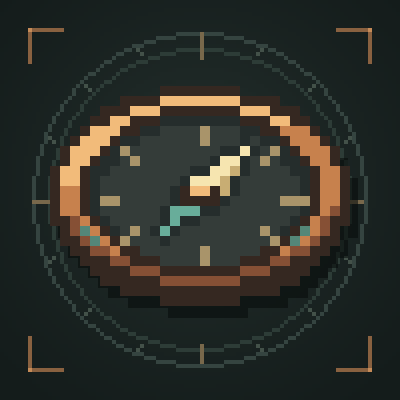
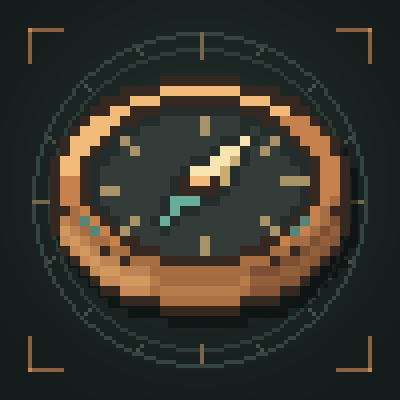
release: prepare v0.1.2 prerelease with V2 artwork

Changed region(s): [[0.12, 0.21, 0.9, 0.81], [0.75, 0.75, 0.78, 0.78]]

diff --git a/generate_project_icon.py b/generate_project_icon.py
@@ -1,4 +1,4 @@
-"""Generate the CurseForge project icon from the existing compass artwork.
+"""Generate the CurseForge project icon from the live V2 compass artwork.
 
 Requires Python 3 and Pillow. This script is MIT-licensed; the generated
 artwork follows the project's CC BY 4.0 artwork license.

diff --git a/docs/CurseForge_项目页面文案.md b/docs/CurseForge_项目页面文案.md
@@ -1,6 +1,6 @@
 # CurseForge 项目页面文案
 
-本稿对应当前 `0.1.1` 预发布版本，仅准备页面内容；未创建 CurseForge 项目、上传文件、重新构建或执行游戏测试。只复制所需的公开文案，不要把编辑说明和待办清单整篇贴到项目页面。
+本稿对应当前 `0.1.2` GitHub 预发布准备版本，采用 V2 折中铜壳与同步的 400×400 项目图标；CurseForge 项目尚未创建或上传。构建与资源检查不代表游戏内验收，V2 外观、干净实例和联机等待测项目保留说明。只复制所需的公开文案，不要把编辑说明和待办清单整篇贴到项目页面。
 
 ## 1. 项目字段（作者填写）
 
@@ -38,7 +38,7 @@ Archaeology Compass adds a craftable copper compass that points toward the neare
 - **Shift for details.** Hold Shift over the item to see search rules, the server's scan range, and the current search status.
 - **Loaded chunks only.** Searching does not force distant chunks to load or generate.
 - **Configurable on the server.** Adjust the horizontal radius, vertical radius, and scan interval.
-- **Original artwork.** A 32×32 copper compass with 32 directional frames, a pale-gold needle, and a green tail.
+- **Original artwork.** A 32×32, 32-frame copper compass with the balanced V2 shell: a subtle two-row copper side wall, a dark bottom edge, a pale-gold needle, and a green tail.
 - **English and Simplified Chinese item text.**
 
 ## How to use
@@ -89,7 +89,7 @@ The server controls these settings, including the integrated server in single-pl
 
 ## Prerelease status and limitations
 
-**Version 0.1.1 is an early prerelease.** Earlier development builds received basic single-player checks, but the latest artwork, tooltip feedback, recipe-book unlocking, JEI display, and dedicated-server multiplayer still need targeted validation. Expect possible issues and please report them.
+**Version 0.1.2 is an early prerelease focused on artwork.** The author reported normal functionality during a previous 0.1.1 development-client session; that feedback is not a complete test matrix. The V2 artwork, clean-instance installation, tooltip and recipe-book regression checks, JEI display, and dedicated-server multiplayer still need targeted validation. Expect possible issues and please report them.
 
 - Only loaded chunks within the configured range are searched.
 - Block changes and ordinary inventory changes are reflected on the next scan, not instantly.
@@ -130,7 +130,7 @@ Found a problem? Please [open an issue](https://github.com/luanma114/archaeology
 
 **版本要求：Minecraft 1.21.1、NeoForge 21.1.235 或更新的 1.21.1 兼容版本、Java 21。** 更新的 NeoForge 版本未逐一验证。多人游戏需要客户端和服务器都安装；此文件不支持 Forge、Fabric 或其他 Minecraft 版本。
 
-当前 **0.1.1 为早期预发布**，新版外观、提示、配方书解锁、JEI 展示及独立服务器联机仍待专项验证。JEI 不是必需依赖；较大范围、高频扫描及多人场景尚无性能实测保证。
+当前 **0.1.2 为美术更新预发布**，采用两行铜制侧壁、一行暗色收边的 V2 折中外观，并同步项目图标；定位、配方和指针逻辑未改。上一轮 0.1.1 开发客户端获用户反馈功能正常，但未列出完整用例；V2 外观、干净实例安装、提示及配方书回归、JEI 展示和独立服务器联机仍需专项验证。JEI 不是必需依赖；较大范围、高频扫描及多人场景尚无性能实测保证。
 
 代码及非美术内容采用 MIT，指定美术资源采用 CC BY 4.0；两者按内容分别适用。整合包可以在遵守相应许可条款的前提下收录。问题反馈请提交 [Issue](https://github.com/luanma114/archaeology-compass/issues)。
 
@@ -140,8 +140,8 @@ Found a problem? Please [open an issue](https://github.com/luanma114/archaeology
 
 | 字段 | 当前建议 |
 | --- | --- |
-| Upload file | 经过重新构建和干净实例验证后，使用对应的主模组 JAR；现有候选为 [archaeologycompass-0.1.1.jar](<../build/libs/archaeologycompass-0.1.1.jar>)，本稿不证明它已完成本轮验收 |
-| Display Name | Archaeology Compass 0.1.1 — Minecraft 1.21.1 (NeoForge) |
+| Upload file | [archaeologycompass-0.1.2.jar](<../build/libs/archaeologycompass-0.1.2.jar>) 已通过离线构建及版本、V2贴图、模型和许可检查；上传 CurseForge 前仍建议完成干净实例验收，不把构建检查当作游戏测试 |
+| Display Name | Archaeology Compass 0.1.2 — Minecraft 1.21.1 (NeoForge) |
 | Release Type | 按目前验证状态选择 **Alpha**；完成单人回归和独服双客户端验证后再考虑 Beta，不直接标稳定 Release |
 | Game Version | 1.21.1 |
 | Mod Loader | NeoForge；不勾选 Forge 或 Fabric |
@@ -150,24 +150,22 @@ Found a problem? Please [open an issue](https://github.com/luanma114/archaeology
 
 如果上传前完成测试，应据实更新第 2、3 节的预发布状态，不沿用已经过时的“仍待验证”，也不在未测试时删掉限制。文件版本变化时同步改标题、文件字段和更新日志。
 
-### English changelog for 0.1.1（可直接粘贴到 Changelog）
+### English changelog for 0.1.2（可直接粘贴到 Changelog）
 
-# Archaeology Compass 0.1.1
+# Archaeology Compass 0.1.2
 
 Early prerelease for **Minecraft 1.21.1 / NeoForge**.
 
-## Changes since 0.1.0
+## Changes since 0.1.1
 
-- Added English and Simplified Chinese tooltip guidance, with Shift details for scan rules, range, and search status.
-- Added a waiting-for-results state and an initial no-target synchronization packet.
-- Added recipe-book unlocking after obtaining a brush or a compass.
-- Updated the compass artwork to an original 32×32, 32-frame copper design with a vanilla-style tilted perspective.
-- Updated documentation to match the current implementation and distinguish planned optimizations from existing features.
-- Documented MIT licensing for code and non-artwork content, and CC BY 4.0 for the specified artwork.
+- Adopted the balanced V2 copper-shell textures across all 32 frames: a two-row side wall, a dark bottom edge, and a softer front seam.
+- Updated the 400×400 project icon to match the V2 artwork.
+- Synchronized artwork previews, the asset generator, project documentation, and CurseForge page copy.
+- Kept the existing target scanning, synchronization, recipe, and needle-angle behavior unchanged.
 
 ## Validation notice
 
-This is not a stable-release claim. Targeted validation of the latest artwork, tooltip feedback, recipe-book unlocking, JEI display, and dedicated-server multiplayer is still pending. Larger multiplayer environments have not been performance-benchmarked.
+This is not a stable-release claim. Targeted validation of the V2 artwork, clean-instance installation, tooltip and recipe-book regression checks, JEI display, and dedicated-server multiplayer is still pending. Larger multiplayer environments have not been performance-benchmarked.
 
 ## 5. Custom License 字段文案（可复制）
 
@@ -190,7 +188,7 @@ The licenses apply by content, not as alternative licenses for all files. Retain
 | 真实 Shift 提示截图 | Search details at a glance | Hold Shift over the item to view scan rules, the server's range, and the current search status. |
 | 可选美术旋转预览 | Copper compass artwork preview | Artwork animation preview, not an in-game capture. Preview speed does not represent the in-game needle speed. |
 
-可选美术素材已有 [旋转预览](<archaeology_compass_rotation.gif>) 和 [32 帧总览](<archaeology_compass_preview.png>)，不要将它们称为游戏截图。[项目图标](<archaeology_compass_icon_400.png>) 使用原创罗盘第 19 帧整数倍放大，配深色背景、测量环和铜色角标；可通过 [图标生成脚本](<../generate_project_icon.py>) 重现（Python 3 + Pillow）。图标沿用 [美术许可](<../LICENSE_ASSETS>) 的 CC BY 4.0 授权。
+可选美术素材已有 [旋转预览](<archaeology_compass_rotation.gif>) 和 [32 帧总览](<archaeology_compass_preview.png>)，不要将它们称为游戏截图。[项目图标](<archaeology_compass_icon_400.png>) 使用 V2 折中铜壳罗盘第 19 帧整数倍放大，配深色背景、测量环和铜色角标；可通过 [图标生成脚本](<../generate_project_icon.py>) 重现（Python 3 + Pillow）。图标沿用 [美术许可](<../LICENSE_ASSETS>) 的 CC BY 4.0 授权。
 
 ## 7. 发布前核对（内部清单，不粘贴到公开正文）
 

diff --git a/docs/releases/v0.1.2.md b/docs/releases/v0.1.2.md
@@ -1,0 +1,59 @@
+# Archaeology Compass v0.1.2 — prerelease
+
+A V2 artwork update for **Minecraft 1.21.1 / NeoForge 21.1.235 / Java 21**.
+
+## Changes since v0.1.1
+
+- Adopted the balanced V2 copper compass artwork across all 32 frames: a subtle two-row copper side wall, one dark bottom edge, and softer shading between the face and shell.
+- Updated the 400×400 project icon to match the V2 artwork.
+- Synchronized the artwork generator, previews, documentation, and English/Chinese CurseForge page copy.
+- Target scanning, networking, crafting, configuration values, and needle-angle behavior are unchanged.
+
+## Installation
+
+Download the attached `archaeologycompass-0.1.2.jar` and place it in the instance's `mods` folder.
+
+- Minecraft **1.21.1**
+- NeoForge **21.1.235** minimum; any newer loader must also be compatible with Minecraft 1.21.1 and has not been separately verified.
+- Java **21**
+- Single-player: install on the client. Multiplayer: the server and all joining clients need the mod.
+- This file is **NeoForge only**, not Forge or Fabric. JEI is optional, not required.
+
+The compass finds nearby suspicious sand/gravel with remaining archaeology loot. It is not a long-range structure locator. Default search range is 64 blocks horizontally and 32 above/below, with an update every 20 game ticks. Searches only loaded chunks.
+
+## Validation and known limitations
+
+This is a **prerelease**, not a stable-release claim.
+
+- A previous 0.1.1 development-client session received user feedback that functionality was normal. That was not an itemized complete test matrix.
+- Offline Gradle build passed for 0.1.2. Artifact inspection confirmed the mod version, all 32 approved V2 textures, unchanged model mapping, recipe/language resources, and the three license files. Test tasks had `NO-SOURCE`; this is not automated gameplay-test coverage.
+- V2 in-game visual checks and clean-instance installation are still pending.
+- Dedicated-server/two-client multiplayer, tooltip and recipe-book regression, JEI display, and high-player-count performance still require targeted validation.
+- Ordinary target/inventory changes are reflected on the next scan, not instantly.
+- Third-party targets must be in `archaeologycompass:archaeology_targets`, use `BrushableBlockEntity` or a subclass, and pass the loot-state checks. Arbitrary custom archaeology block entities are not supported.
+
+Please [report issues](https://github.com/luanma114/archaeology-compass/issues) with Minecraft, NeoForge and mod versions, reproduction steps, and relevant logs with private information removed.
+
+## License
+
+Code and non-artwork content use MIT. The specified compass textures, icon, and artwork previews use CC BY 4.0. These licenses apply to separate parts of the project. Retain required notices and comply with artwork attribution and modification-notice requirements.
+
+Artwork: Archaeology Compass by luanma114, licensed under [CC BY 4.0](https://creativecommons.org/licenses/by/4.0/).
+
+Previous v0.1.0 and v0.1.1 releases and their files are not replaced by this release.
+
+---
+
+## 中文说明
+
+**v0.1.2 为 V2 美术更新预发布**，适用于 Minecraft 1.21.1、NeoForge 21.1.235 和 Java 21。
+
+- 采用 32 帧 V2 折中铜壳：两行铜制侧壁、一行暗色收边，减弱黑色分界与横向色带。
+- 同步 400×400 项目图标、资源生成器、预览和 CurseForge 文案。
+- 定位、同步、配方、扫描配置与指针逻辑未改。
+
+下载附件 `archaeologycompass-0.1.2.jar`，放入实例的 `mods` 文件夹。多人游戏需客户端与服务器都安装；此文件不支持 Forge 或 Fabric。
+
+此前用户反馈 0.1.1 开发客户端功能正常，但这不等于完整验收。V2 游戏内外观、干净实例安装、独服双客户端、提示和配方书回归、JEI 展示及性能仍需专项验证。构建和资源检查不等于游戏功能测试通过。
+
+旧版标签、Release 和附件保持不变；请勿将旧文件误当作本次 V2 构建。

diff --git a/README.md b/README.md
@@ -16,7 +16,7 @@
 
 ## 外观
 
-原创 **32×32 铜制罗盘**，采用接近原版指南针的斜视外观。浅金色长针指向目标，绿色短尾用于区分方向。
+原创 **32×32 铜制罗盘**，采用接近原版指南针的斜视外观。V2 使用两行铜制侧壁和一行暗色收边，兼顾厚度感与轻巧感。浅金色长针指向目标，绿色短尾用于区分方向。
 
 ![考古罗盘外观与旋转预览](docs/archaeology_compass_rotation.gif)
 
@@ -44,7 +44,7 @@
 
 单人游戏安装到客户端；多人游戏需要客户端和服务器都安装。
 
-当前版本为 **v0.1.1 预发布**，包含使用反馈、配方书解锁与新版斜视外观。更新内容和已知限制见对应 Release 说明。
+当前版本为 **v0.1.2 预发布**，采用 V2 折中铜壳外观，并同步项目图标。定位、配方和指针逻辑与 0.1.1 保持一致；V2 游戏内外观、干净实例安装、独立服务器联机、JEI 及性能仍需专项验证。更新内容和已知限制见对应 Release 说明。
 
 ## 反馈
 
